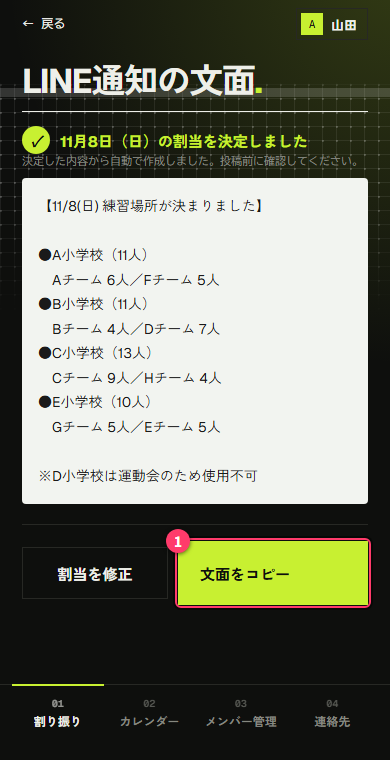
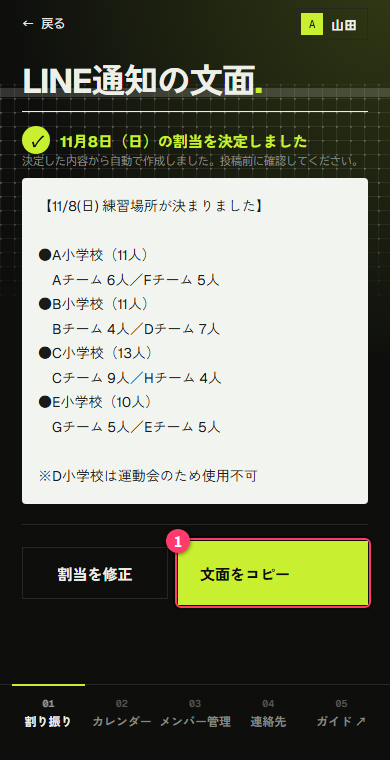
使い方ガイドへのリンクを画面下から、下のタブ末尾とチーム選択画面のボタンに移動

diff --git a/docs/guide/user.html b/docs/guide/user.html
@@ -85,7 +85,7 @@ figcaption{margin-top:8px;color:var(--mute);font-size:13px;text-align:center}
 <nav class="top"><a href="../">← アプリを開く</a><a href="allocator.html">割当者ガイド</a></nav>
 <h1>Attendance ユーザーガイド(メンバー向け)<i>.</i></h1>
 <p>毎週日曜の練習の出欠を、スマホから回答するためのアプリです。今週の体育館やチームの連絡もここで確認できます。</p>
-<ul><li>開くページ: <a href="https://attendance-hakata.github.io/Attendance/">https://attendance-hakata.github.io/Attendance/</a></li><li>ホーム画面に追加しておくと、アプリのようにすぐ開けます(→ 1章「ホーム画面に追加する」)</li><li>このガイドは、アプリのホームや最初の画面の一番下にある「使い方ガイド」、または右上の名前 →「使い方」からも開けます</li></ul>
+<ul><li>開くページ: <a href="https://attendance-hakata.github.io/Attendance/">https://attendance-hakata.github.io/Attendance/</a></li><li>ホーム画面に追加しておくと、アプリのようにすぐ開けます(→ 1章「ホーム画面に追加する」)</li><li>このガイドは、アプリの下のタブの一番右「ガイド」、最初のチーム選択画面の「使い方ガイド」ボタン、または右上の名前 →「使い方」からも開けます</li></ul>
 <hr>
 <h2>1. はじめて開いたとき</h2>
 <ol><li>一覧から、自分の<strong>チーム</strong>を選びます</li><li>続けて、自分の<strong>名前</strong>を選びます</li></ol>
@@ -106,9 +106,9 @@ figcaption{margin-top:8px;color:var(--mute);font-size:13px;text-align:center}
 <ul><li>開いたときに、画面の下に「インストール」や「ホーム画面に追加」の案内が出ることがあります。それを押しても追加できます</li><li>Chrome 以外のブラウザでも、メニューの中に同じ名前の項目があれば追加できます</li></ul>
 <hr>
 <h2>2. 画面の構成</h2>
-<p>画面の下に、4つのタブがあります。右上には自分の名前が出ています。</p>
-<figure><img src="img/user-03-home.png" alt="ホーム画面。①〜④が下のタブ、⑤が自分の名前" loading="lazy" width="390"><figcaption>ホーム画面。①〜④が下のタブ、⑤が自分の名前</figcaption></figure>
-<div class="table"><table><thead><tr><th>番号</th><th>場所</th><th>できること</th></tr></thead><tbody><tr><td>①</td><td>ホーム</td><td>今週の体育館、チームの出欠、連絡を見る</td></tr><tr><td>②</td><td>出欠</td><td>4週分の出欠とコメントを回答する</td></tr><tr><td>③</td><td>カレンダー</td><td>体育館の使用不可やチームの休みなどの予定を見る・登録する</td></tr><tr><td>④</td><td>管理画面</td><td>チームの代表や割当担当が使う画面です(パスが必要)。メンバーは使いません</td></tr><tr><td>⑤</td><td>自分の名前</td><td>選び直し、使い方ガイドを開く</td></tr></tbody></table></div>
+<p>画面の下に、5つのタブがあります。右上には自分の名前が出ています。</p>
+<figure><img src="img/user-03-home.png" alt="ホーム画面。①〜④と⑥が下のタブ、⑤が自分の名前" loading="lazy" width="390"><figcaption>ホーム画面。①〜④と⑥が下のタブ、⑤が自分の名前</figcaption></figure>
+<div class="table"><table><thead><tr><th>番号</th><th>場所</th><th>できること</th></tr></thead><tbody><tr><td>①</td><td>ホーム</td><td>今週の体育館、チームの出欠、連絡を見る</td></tr><tr><td>②</td><td>出欠</td><td>4週分の出欠とコメントを回答する</td></tr><tr><td>③</td><td>カレンダー</td><td>体育館の使用不可やチームの休みなどの予定を見る・登録する</td></tr><tr><td>④</td><td>管理画面</td><td>チームの代表や割当担当が使う画面です(パスが必要)。メンバーは使いません</td></tr><tr><td>⑤</td><td>自分の名前</td><td>選び直し、使い方ガイドを開く</td></tr><tr><td>⑥</td><td>ガイド</td><td>このガイドを別のタブで開く</td></tr></tbody></table></div>
 <hr>
 <h2>3. ホーム</h2>
 <p>次の日曜について、次のことがわかります。</p>

diff --git a/docs/guide/allocator.html b/docs/guide/allocator.html
@@ -84,7 +84,7 @@ figcaption{margin-top:8px;color:var(--mute);font-size:13px;text-align:center}
 <main>
 <nav class="top"><a href="../">← アプリを開く</a><a href="user.html">ユーザーガイド</a></nav>
 <h1>Attendance 割当者ガイド(割当担当・チーム代表向け)<i>.</i></h1>
-<p>管理画面の使い方をまとめています。メンバーとしての使い方(出欠の回答など)は「ユーザーガイド」を見てください。このガイドは、管理画面の一番下にある「割当者ガイド」、または右上の名前 →「使い方」からも開けます(パスを入力した端末のみ)。</p>
+<p>管理画面の使い方をまとめています。メンバーとしての使い方(出欠の回答など)は「ユーザーガイド」を見てください。このガイドは、管理画面の下のタブの一番右「ガイド」、または右上の名前 →「使い方」からも開けます(パスを入力した端末のみ)。</p>
 <ul><li><strong>チーム代表</strong>: メンバー管理、連絡先、カレンダーの章を読んでください</li><li><strong>割当担当</strong>: 上に加えて、「割り振り」の章を読んでください</li></ul>
 <p>パスは、管理者から個別に受け取ってください。このガイドには記載しません。人に見られる場所(グループのトークなど)には書かないでください。</p>
 <hr>
@@ -93,7 +93,7 @@ figcaption{margin-top:8px;color:var(--mute);font-size:13px;text-align:center}
 <figure><img src="img/alloc-01-pass.png" alt="パスの入力画面。①入力した桁数、②管理者用への切り替え(管理者だけが使います)" loading="lazy" width="390"><figcaption>パスの入力画面。①入力した桁数、②管理者用への切り替え(管理者だけが使います)</figcaption></figure>
 <ul><li>一度入力すると、その端末では次から入力なしで管理画面に入れます。期限はありません</li><li>管理者がチームのパスを変更したときは、もう一度入力が必要です</li><li>iPhone でホーム画面に追加したアイコンから開くときは、Safari で入力していても、もう一度入力が必要です(保存される内容が別々のため)</li><li>「← 戻る」でメンバー用の画面(ホーム)に戻れます</li></ul>
 <p>管理画面の下のタブ:</p>
-<div class="table"><table><thead><tr><th>タブ</th><th>使える人</th><th>できること</th></tr></thead><tbody><tr><td>割り振り</td><td>割当担当のチームだけ</td><td>次の日曜の体育館の割当</td></tr><tr><td>カレンダー</td><td>パスを持つ全員</td><td>予定の登録・修正</td></tr><tr><td>メンバー管理</td><td>パスを持つ全員(自分のチームのみ)</td><td>名簿、連絡先、ホームの設定</td></tr><tr><td>連絡先</td><td>パスを持つ全員</td><td>各チームの代表・副代表の連絡先を見る</td></tr></tbody></table></div>
+<div class="table"><table><thead><tr><th>タブ</th><th>使える人</th><th>できること</th></tr></thead><tbody><tr><td>割り振り</td><td>割当担当のチームだけ</td><td>次の日曜の体育館の割当</td></tr><tr><td>カレンダー</td><td>パスを持つ全員</td><td>予定の登録・修正</td></tr><tr><td>メンバー管理</td><td>パスを持つ全員(自分のチームのみ)</td><td>名簿、連絡先、ホームの設定</td></tr><tr><td>連絡先</td><td>パスを持つ全員</td><td>各チームの代表・副代表の連絡先を見る</td></tr><tr><td>ガイド</td><td>パスを持つ全員</td><td>この割当者ガイドを別のタブで開く</td></tr></tbody></table></div>
 <p>「割り振り」タブが出ないときは、あなたのチームが割当担当に設定されていません。管理者に相談してください。</p>
 <h3>パス入力を解除する</h3>
 <p>借りた端末や共有の端末で使ったあとは、パス入力を解除してください。</p>

diff --git a/docs/assets/app.js b/docs/assets/app.js
@@ -236,7 +236,8 @@
   function viewOnboard() {
     var html = '<div class="ob"><img src="' + 'assets/logo.png' + '" alt="Attendance">';
     if (!S.obTeam) {
-      html += '<h1><span>チームを</span><span>選んでください<i class="acc" style="font-style:normal">.</i></span></h1><div class="ob-list">';
+      html += '<div class="ob-head"><h1><span>チームを</span><span>選んでください<i class="acc" style="font-style:normal">.</i></span></h1>' +
+        '<a class="ob-guide" href="' + guideUrl('user.html') + '" target="_blank" rel="noopener">使い方ガイド ↗</a></div><div class="ob-list">';
       S.boot.teams.forEach(function (t) {
         var size = S.boot.members.filter(function (m) { return m.teamId === t.id; }).length;
         html += '<button class="ob-item" data-a="obTeam" data-v="' + esc(t.id) + '"><u>' + esc(teamMark(t.name)) + '</u><strong>' + esc(t.name) +
@@ -250,7 +251,7 @@
         html += '<button class="ob-item" data-a="obMember" data-v="' + esc(m.id) + '"><strong>' + esc(m.name) + '</strong><i>→</i></button>';
       });
     }
-    return html + '</div>' + viewGuideFoot(false) + '</div>';
+    return html + '</div></div>';
   }
 
   function viewHeader(isAdmin, member, team) {
@@ -1033,10 +1034,13 @@
       ? (canAllocate() ? [['alloc', '割り振り']] : []).concat([['calendar', 'カレンダー'], ['team', 'メンバー管理'], ['contacts', '連絡先']])
       : [['home', 'ホーム'], ['answer', '出欠'], ['calendar', 'カレンダー'], ['admin', '管理画面']];
     if (isAdmin && who && who.role === 'power') tabs.push(['power', '管理者']);
-    var cols = ' style="grid-template-columns:repeat(' + tabs.length + ',1fr)"';
+    var cols = ' style="grid-template-columns:repeat(' + (tabs.length + 1) + ',1fr)"';
+    // 末尾は使い方ガイド(別タブで開く)。メンバー用の画面はユーザーガイド、管理画面は割当者ガイド
+    var guide = '<a class="tab" href="' + guideUrl(isAdmin ? 'allocator.html' : 'user.html') + '" target="_blank" rel="noopener"><span>0' +
+      (tabs.length + 1) + '</span>ガイド ↗</a>';
     return '<div class="tabs"' + cols + '>' + tabs.map(function (t, i) {
       return '<button class="tab' + (S.screen === t[0] ? ' on' : '') + '" data-a="tab" data-v="' + t[0] + '"><span>0' + (i + 1) + '</span>' + t[1] + '</button>';
-    }).join('') + '</div>';
+    }).join('') + guide + '</div>';
   }
 
   function viewError() {
@@ -1094,11 +1098,6 @@
   function viewGuideLinks() {
     return '<div class="user-guide"><b>使い方</b><a href="' + guideUrl('user.html') + '" target="_blank" rel="noopener">ユーザーガイド ↗</a>' +
       (auth() ? '<a href="' + guideUrl('allocator.html') + '" target="_blank" rel="noopener">割当者ガイド ↗</a>' : '') + '</div>';
-  }
-  // 画面の一番下に出す、使い方ガイドへのリンク。メンバー用の画面はユーザーガイド、管理画面は割当者ガイド
-  function viewGuideFoot(admin) {
-    return '<p class="guide-foot"><a href="' + guideUrl(admin ? 'allocator.html' : 'user.html') + '" target="_blank" rel="noopener">' +
-      (admin ? '割当者ガイド(管理画面の使い方)' : '使い方ガイド') + ' ↗</a></p>';
   }
 
   function viewUserPass() {
@@ -1191,8 +1190,6 @@
       : S.screen === 'team' ? viewTeamAdmin()
       : S.screen === 'power' ? viewPowerAdmin()
       : viewHome(member, team);
-    if (S.screen === 'home') body += viewGuideFoot(false);
-    else if (isAdmin && S.screen !== 'power' && auth()) body += viewGuideFoot(true);
     app.innerHTML = viewHeader(isAdmin, member, team) +
       '<div class="main" id="mainScroll" data-screen="' + S.screen + '">' + body + '</div>' + viewTabs(isAdmin);
     document.getElementById('mainScroll').scrollTop = keepScroll;

diff --git a/docs/assets/style.css b/docs/assets/style.css
@@ -35,6 +35,9 @@ a{color:inherit}
 .tab{height:56px;border-top:2px solid transparent;margin-top:-1px;color:var(--mute);font-size:12px;font-weight:600;display:flex;flex-direction:column;align-items:center;justify-content:center;gap:2px}
 .tab span{font-family:var(--mono);font-size:10px;opacity:.6}
 .tab.on{color:var(--tx);border-top-color:var(--acc)}
+a.tab{text-decoration:none;white-space:nowrap}
+.tabs[style*="repeat(6"]{padding-left:6px;padding-right:6px}
+.tabs[style*="repeat(6"] .tab{font-size:10px;white-space:nowrap}
 .busy{position:fixed;top:0;left:0;right:0;height:2px;background:var(--acc);z-index:30;animation:busy 1s ease-in-out infinite alternate}
 .busy[hidden]{display:none}
 @keyframes busy{from{opacity:.25}to{opacity:1}}
@@ -90,7 +93,9 @@ a{color:inherit}
 .ob-back{align-self:flex-start;margin-top:16px;height:44px;color:var(--mute);font-size:12px;font-family:var(--mono)}
 .ob-back + h1{margin-top:8px}
 .ob-list{border-top:1px solid var(--tx)}
-.ob h1 + .ob-list{margin-top:24px}
+.ob h1 + .ob-list,.ob-head + .ob-list{margin-top:24px}
+.ob-head{position:relative}
+.ob-guide{position:absolute;right:0;top:34px;height:32px;padding:0 12px;display:inline-flex;align-items:center;border:1px solid var(--tx);color:var(--tx);font-size:12px;font-weight:600;text-decoration:none;white-space:nowrap}
 .ob-item{width:100%;display:flex;align-items:center;gap:14px;height:56px;border-bottom:1px solid var(--rule);text-align:left}
 .ob-item u{text-decoration:none;font-family:var(--mono);font-size:12px;width:22px;height:22px;border:1px solid currentColor;display:grid;place-items:center}
 .ob-item strong{font-size:17px;font-weight:600;margin-right:auto}
@@ -394,8 +399,6 @@ select.text-input{padding:0 8px}
 .user-guide{display:flex;flex-wrap:wrap;align-items:center;gap:8px 16px;margin-top:14px;padding-top:14px;border-top:1px solid var(--rule);font-size:14px}
 .user-guide b{width:100%}
 .user-guide a{color:var(--acc);text-decoration:none}
-.guide-foot{margin:28px 0 8px;text-align:center;font-size:13px}
-.guide-foot a{color:var(--mute);text-decoration:underline;text-underline-offset:3px}
 .user-pass{display:flex;flex-direction:column;gap:6px;margin-top:14px;padding-top:14px;border-top:1px solid var(--rule)}
 .user-pass b{font-size:14px}
 .user-pass ul{margin:0;padding-left:18px;font-size:13px;line-height:1.6;color:var(--mute)}

diff --git a/docs/sw.js b/docs/sw.js
@@ -1,6 +1,6 @@
 // Attendance の Service Worker。オフラインでも前回の表示を出し、通信回復後に更新する。
 // API(script.google.com への POST)は一切キャッシュせず、そのまま通す。
-var VERSION = 'att-v9';
+var VERSION = 'att-v10';
 var CORE = [
   './', 'index.html', 'config.js', 'manifest.webmanifest',
   'assets/app.js', 'assets/style.css', 'assets/logo.png',
